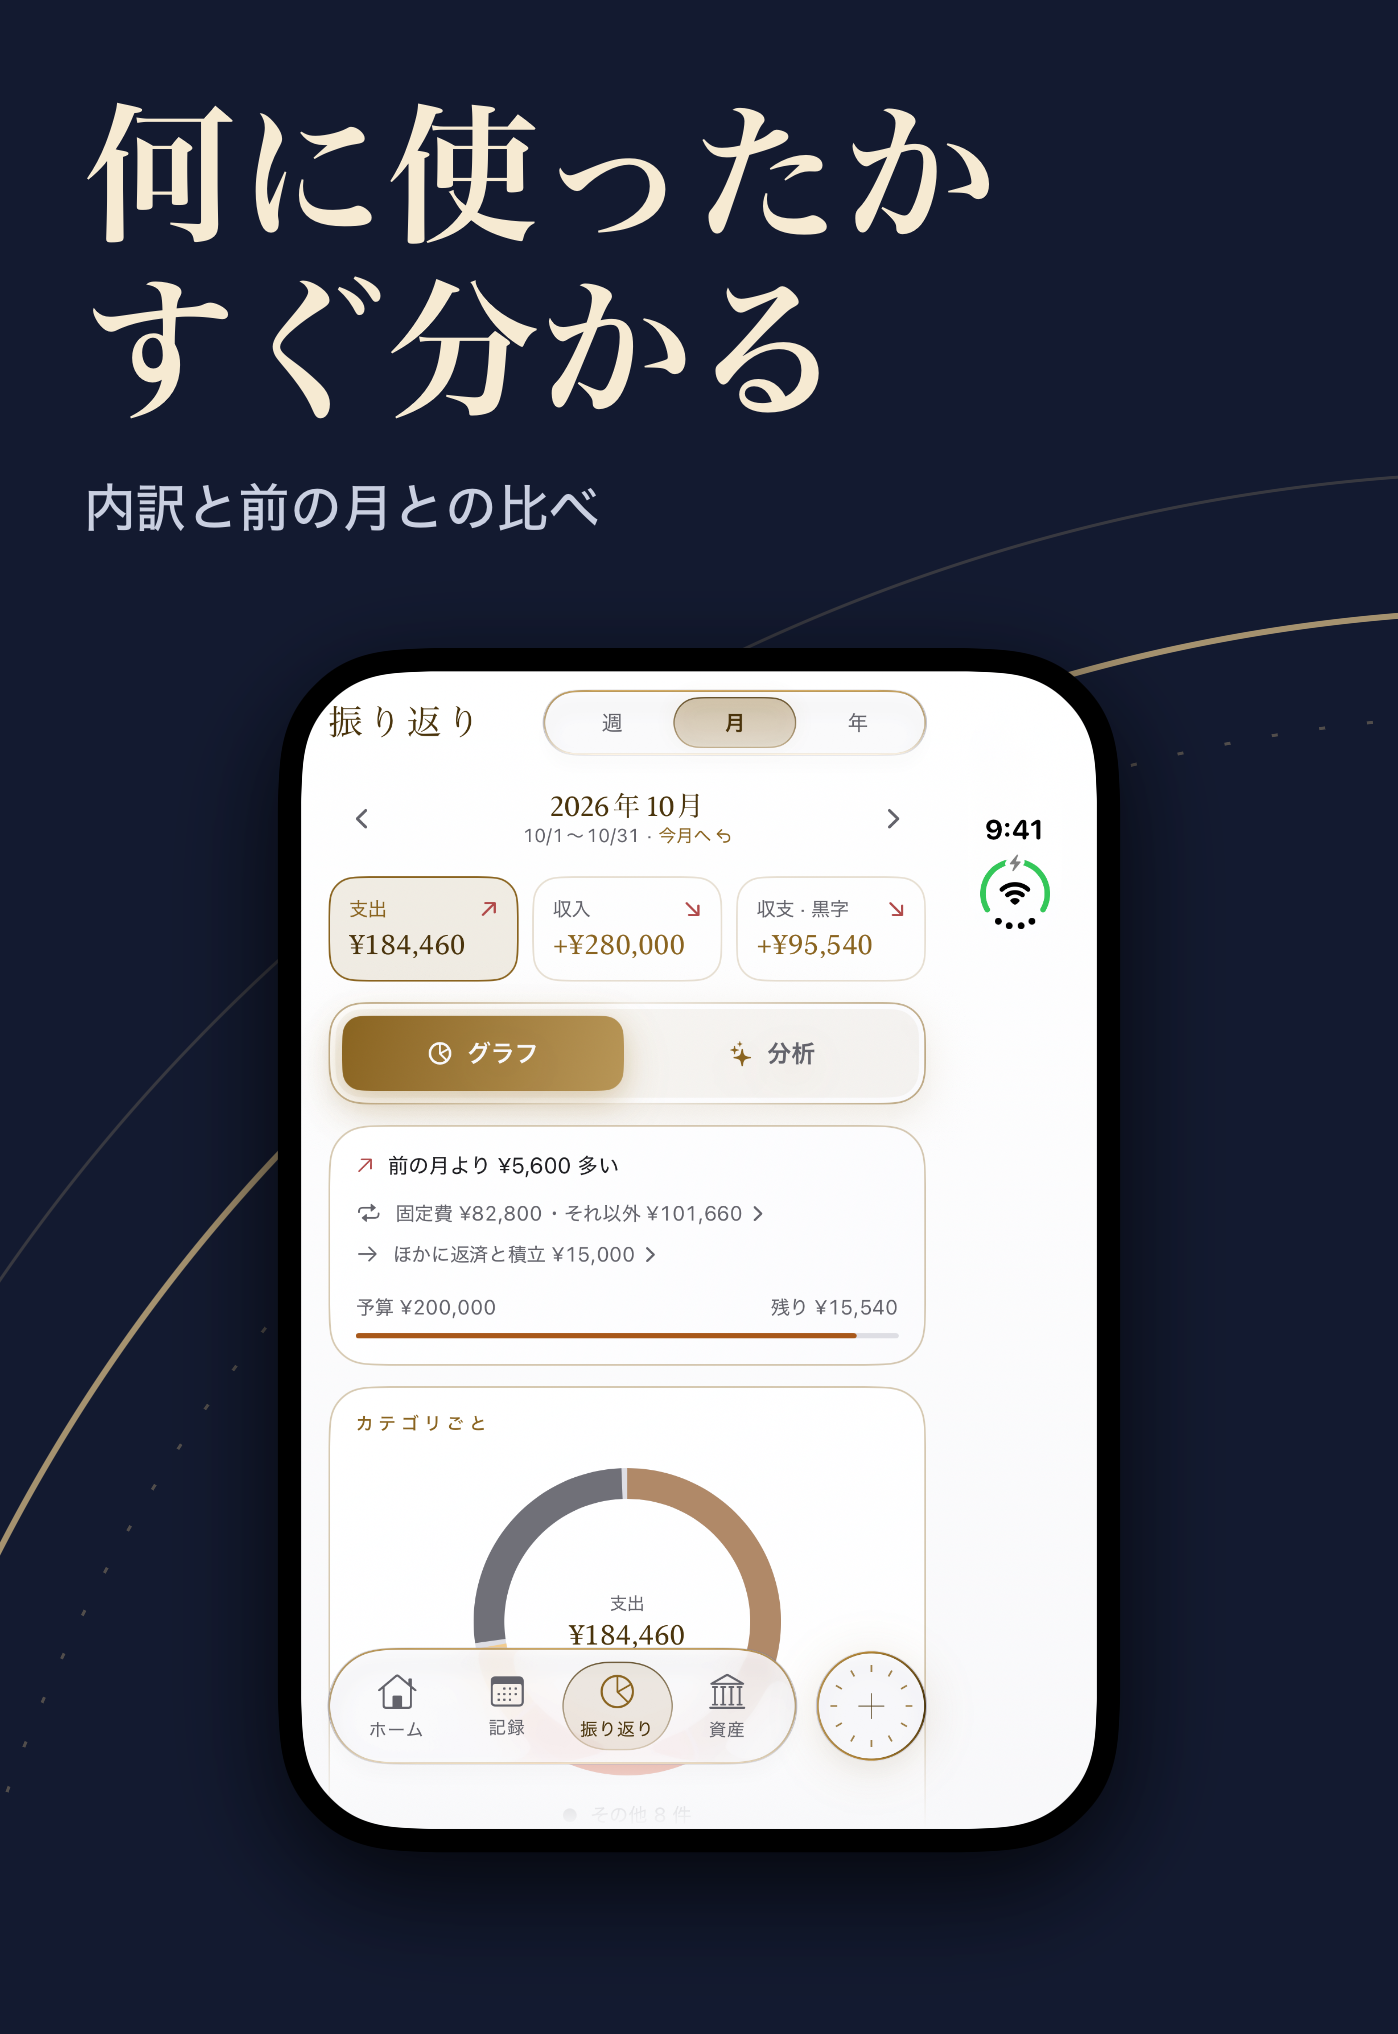
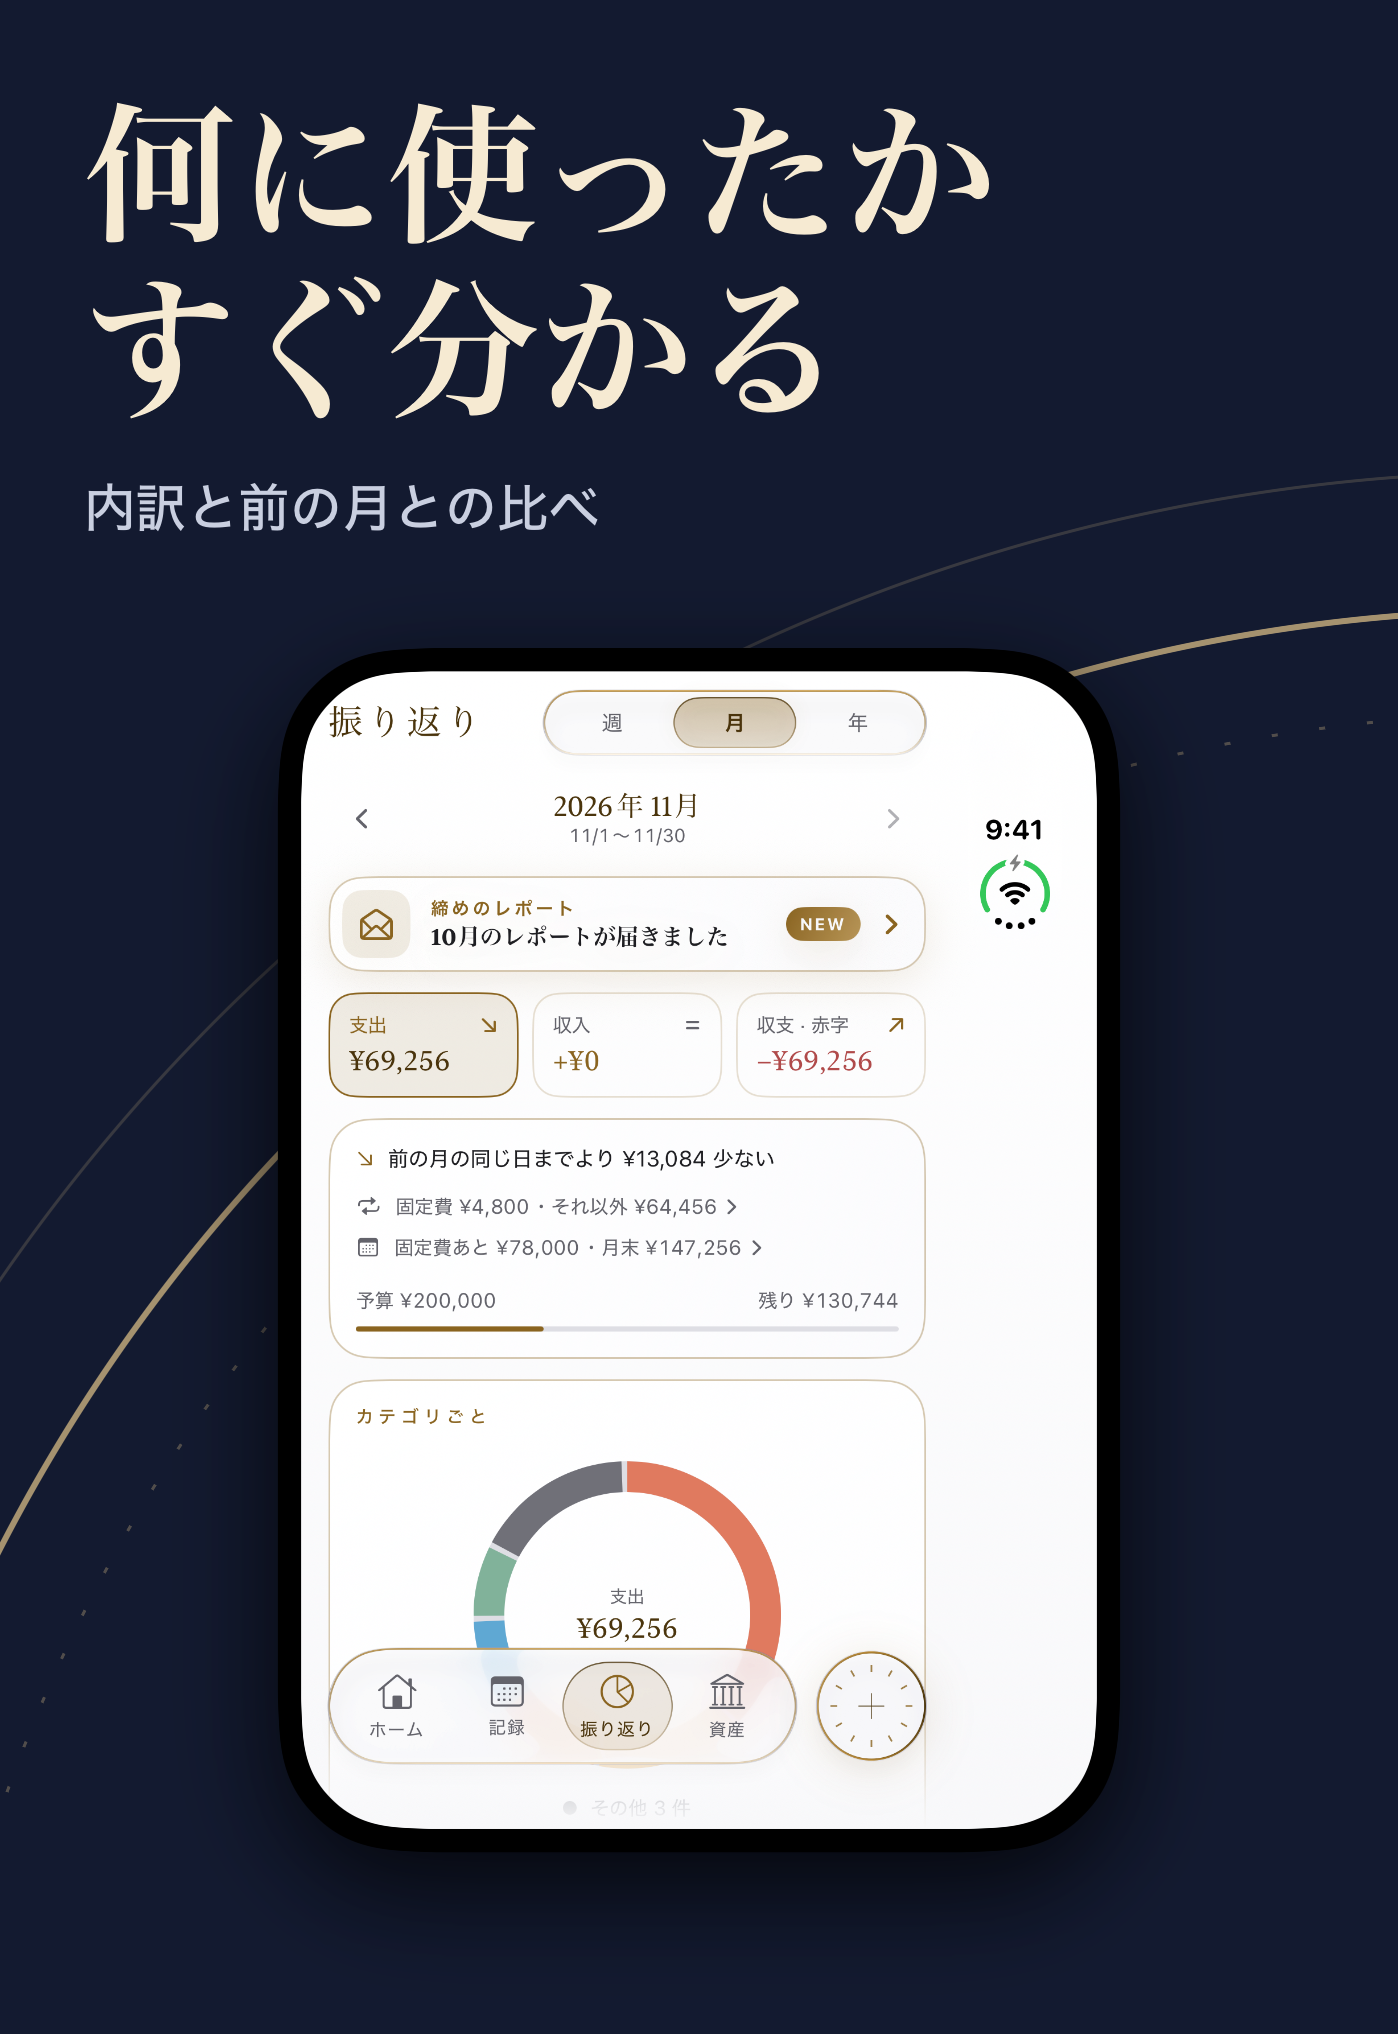
docs: retake the review screenshots for 1.9.0 (#474)
## 🎯 目的

1.9.0 で振り返りを作り直したので、ストアの画像を今の画面に撮り直す。消した AI 分析の画像は、途中経過と締めのレポートの画像に替える。

## 📝 変更

| ファイル | 変えたこと |
| --- | --- |
| `.claude/snapshots/store/SnapshotTests.swift` | `08-analysis` を
`08-review` に替えた。見出しは「締めたら、届くレポート」 |
| `store/screenshots/raw/08-review-*.png` | 途中経過と締めのレポートを、6.9
インチの黒のテーマで撮った |
| `store/screenshots/raw/outer-07-review.png`・`inner-02-review.png` |
Duo の外と内の振り返りを撮り直した |
| `store/screenshots/6.9`・`6.3`・`duo-*` | 描き直した画像に替え、`08-analysis` を消した
|
| `README.md` | 機能の画像を `08-review.png` にし、見出しを「締めのレポート」にした |

## 🧪 確認

| 確認 | 結果 |
| --- | --- |
| 差分の重さ | 🟡 small・14 行。レビュー: reviewer（sonnet） |
| verify | ✅ 通った |
| レビュー | ✅ 指摘なし |
| 見た目 | ✅ `make snapshot SNAPSHOT=store` で描き、変わった 4 枚の見出しと端末の収まりを確かめた |

🤖 Generated with [Claude Code](https://claude.com/claude-code)

diff --git a/.claude/snapshots/store/SnapshotTests.swift b/.claude/snapshots/store/SnapshotTests.swift
@@ -909,12 +909,12 @@ private extension SnapshotTests {
             ]
         ),
         Shot(
-            file: "08-analysis",
-            lines: ["増えた理由を、", "AI が分析"],
-            lead: .note("増えたカテゴリと、AI のまとめ"),
+            file: "08-review",
+            lines: ["締めたら、", "届くレポート"],
+            lead: .note("いまのペースと、次の一手"),
             phones: [
-                Phone(name: "08-analysis-black", x: 12, y: 196, width: 250, angle: -4),
-                Phone(name: "08-analysis-ai-black", x: 112, y: 280, width: 220, angle: 4)
+                Phone(name: "08-review-pace-black", x: 12, y: 196, width: 250, angle: -4),
+                Phone(name: "08-review-closing-black", x: 112, y: 280, width: 220, angle: 4)
             ]
         ),
         Shot(

diff --git a/README.md b/README.md
@@ -12,9 +12,9 @@
 | :---: | :---: | :---: |
 | <img src="store/screenshots/6.9/01-home.png" width="200" alt="ホームで今月あといくら使えるかが分かる"> | <img src="store/screenshots/6.9/02-theme.png" width="200" alt="テーマで見た目を着せ替える"> | <img src="store/screenshots/6.9/03-entry.png" width="200" alt="金額と分類を入れて記録する"> |
 
-| レシートの読み取り | 振り返りの分析 | 月末の見込み |
+| レシートの読み取り | 締めのレポート | 月末の見込み |
 | :---: | :---: | :---: |
-| <img src="store/screenshots/6.9/06-receipt.png" width="200" alt="レシートを撮って記録する"> | <img src="store/screenshots/6.9/08-analysis.png" width="200" alt="支出が増えた理由を AI が分析する"> | <img src="store/screenshots/6.9/09-outlook.png" width="200" alt="固定費と予定から月末の残りを見込む"> |
+| <img src="store/screenshots/6.9/06-receipt.png" width="200" alt="レシートを撮って記録する"> | <img src="store/screenshots/6.9/08-review.png" width="200" alt="締めた期間の結果と次の一手をレポートで見る"> | <img src="store/screenshots/6.9/09-outlook.png" width="200" alt="固定費と予定から月末の残りを見込む"> |
 
 ## 🗺 全体像
 
